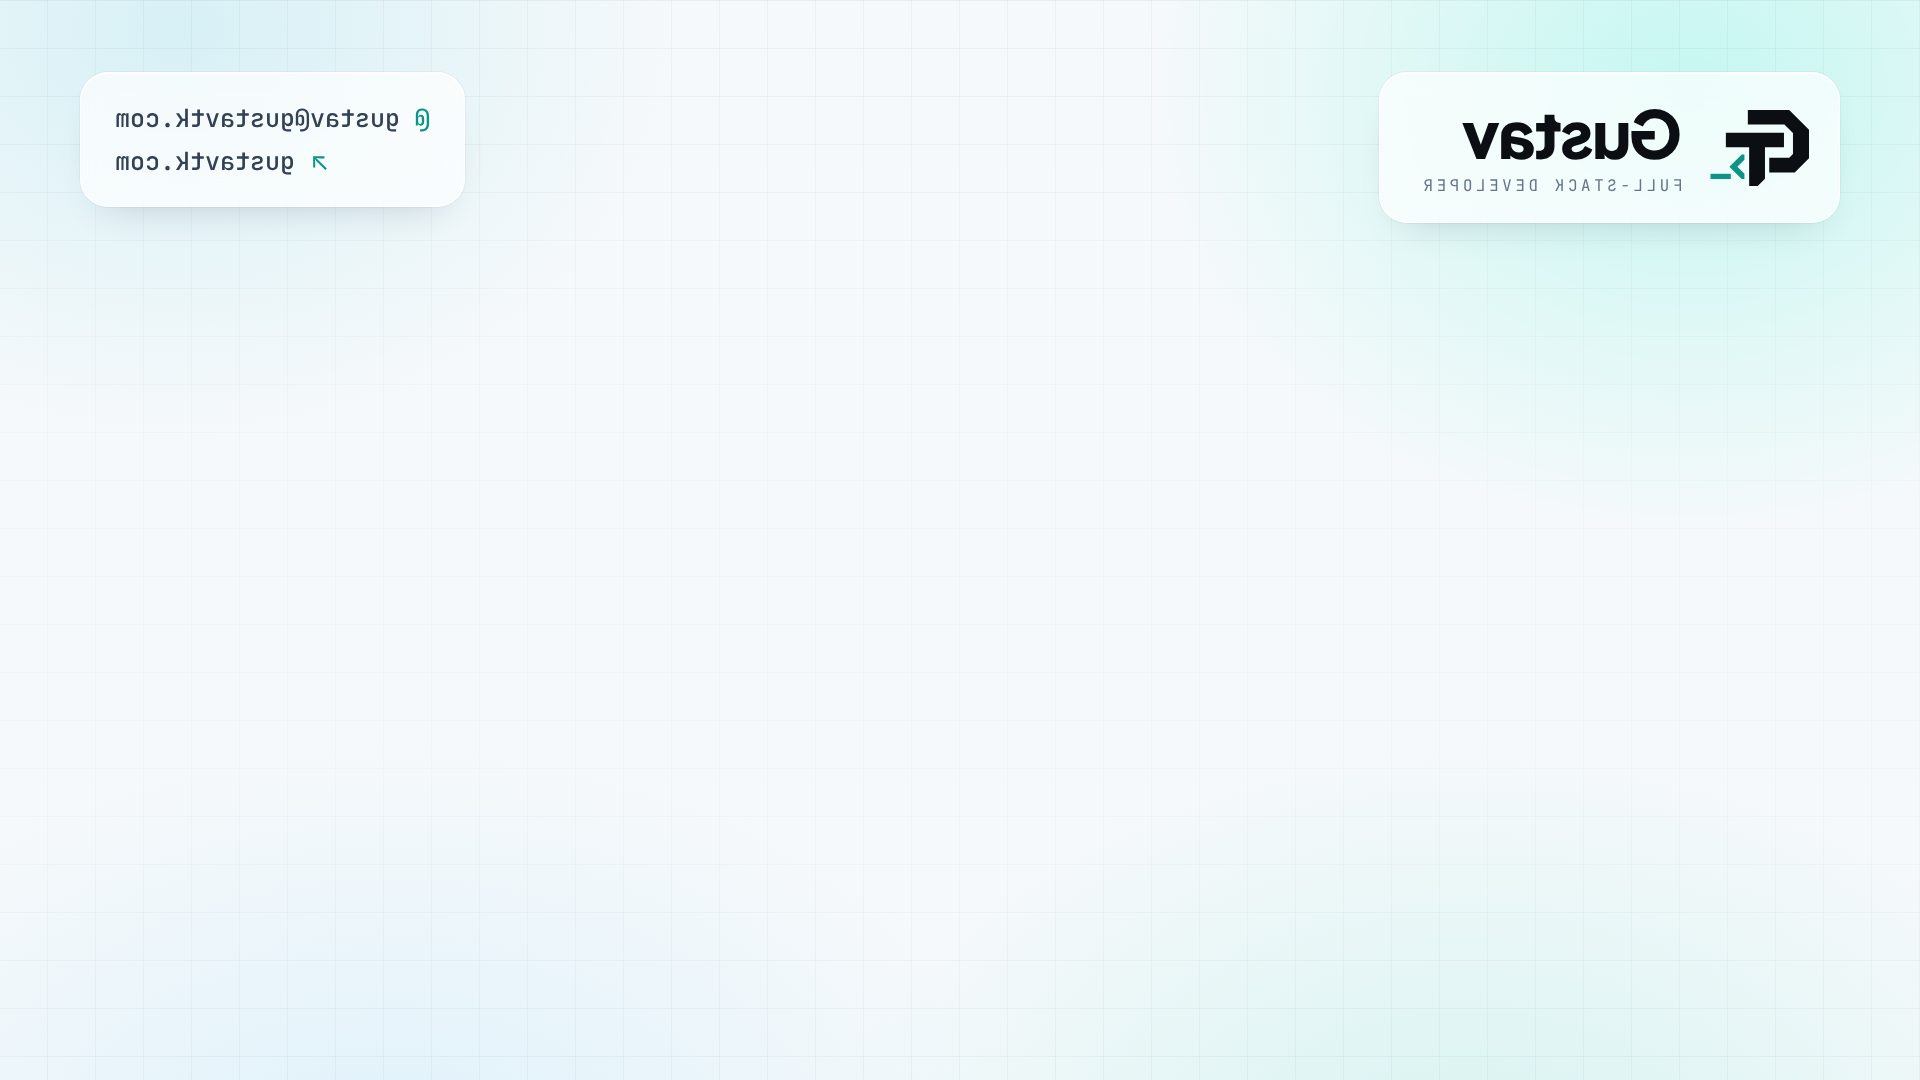
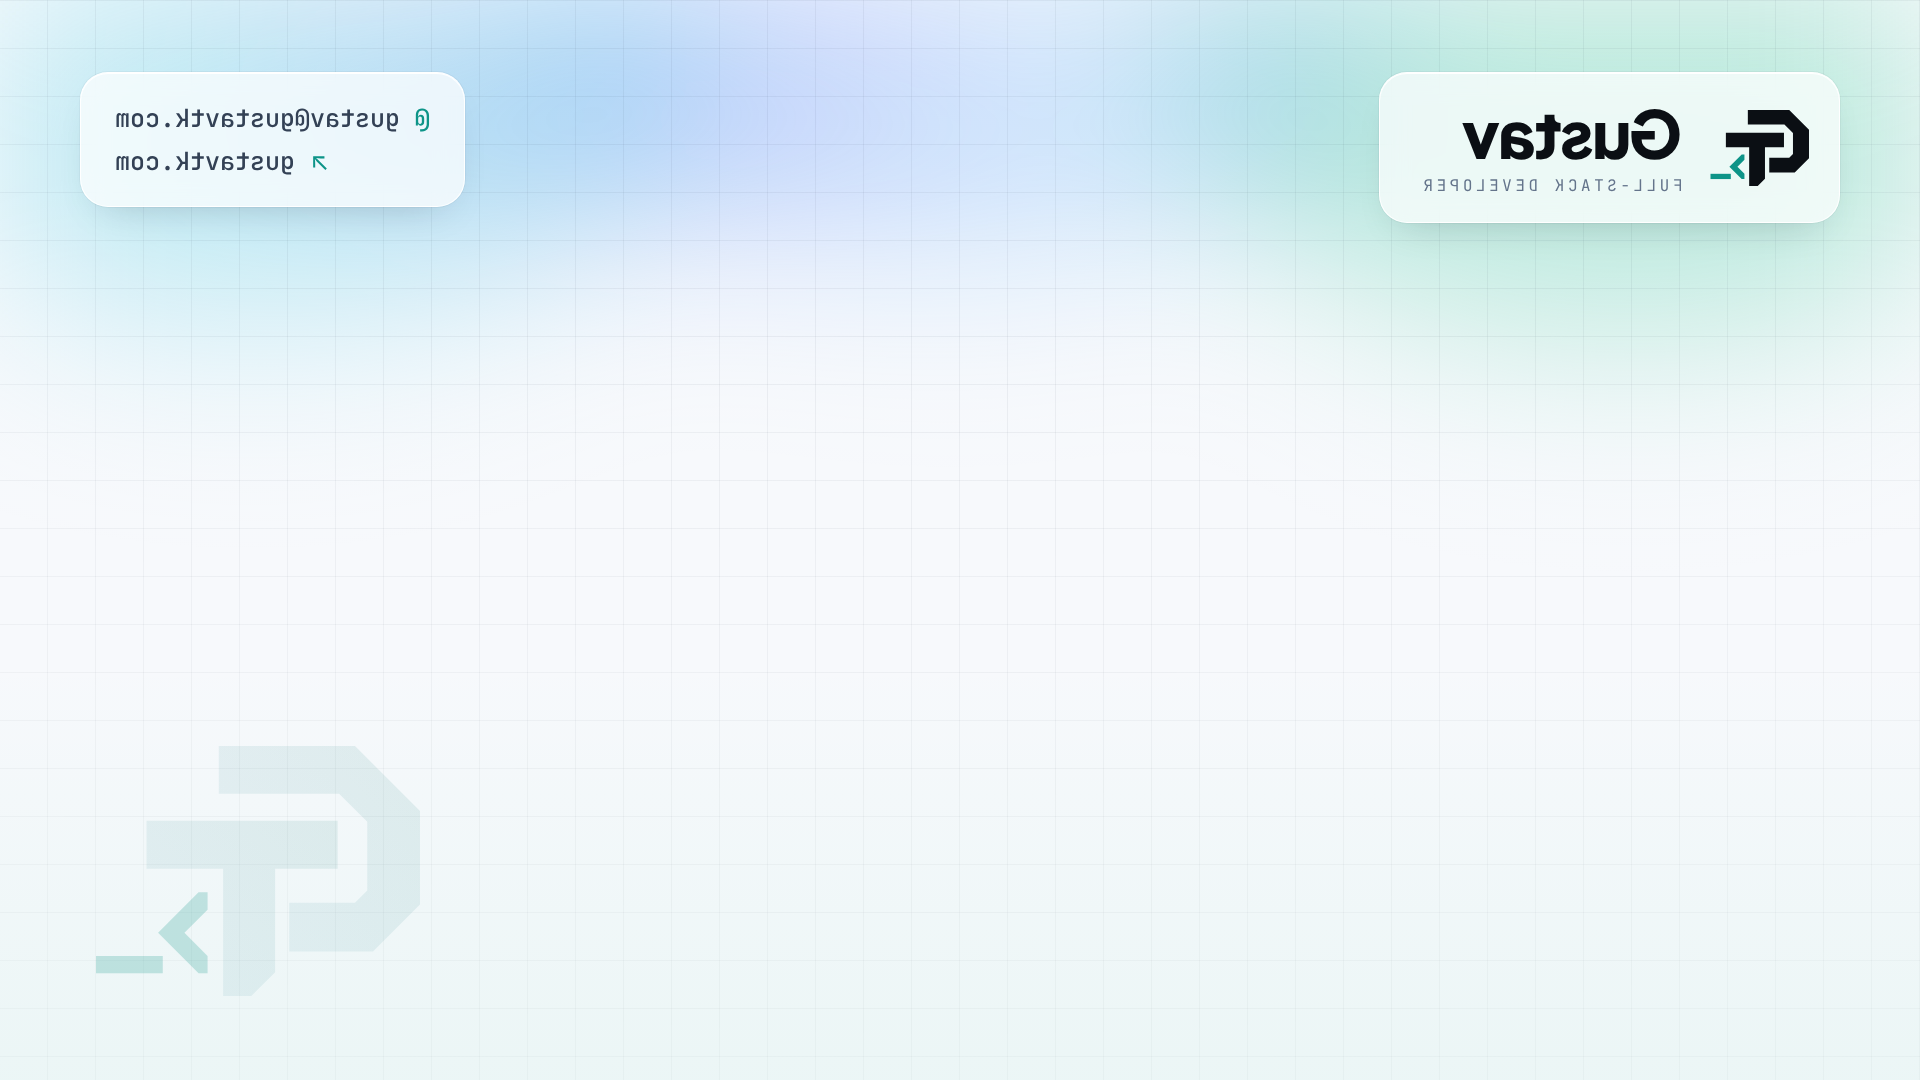
Glass Meet background: site hero glow, grid and a bottom-right mark watermark
Claude-Session: https://claude.ai/code/session_01H2TVSc56KQZrPADdEAeWoT

Changed region(s): [[0.0312, 0.0, 0.7812, 0.275], [0.0312, 0.825, 0.125, 0.9167]]

diff --git a/meet-backgrounds/README.md b/meet-backgrounds/README.md
@@ -11,7 +11,7 @@ Logo, name and role sit top left; email and website top right; the middle stays 
 | `02-access-pass.png` | The hero's lanyard access pass hanging top left |
 | `03-browser.png` | A light browser window: your brand in the tab, gustavtk.com in the address bar |
 | `04-code.png` | Your contact details as a `contact.ts` snippet in a small editor card |
-| `05-glass.png` | Frosted-glass cards over the site grid and a calm teal glow (role: Full-Stack Developer) |
+| `05-glass.png` | Frosted-glass cards over a light take on the site hero glow and grid, with a teal mark watermark bottom right (role: Full-Stack Developer) |
 
 **Upload the files in this folder, not `mirrored/`.** Meet mirrors only your own self-view; everyone
 else sees the background exactly as uploaded, so the text reads correctly for them. The copies in
